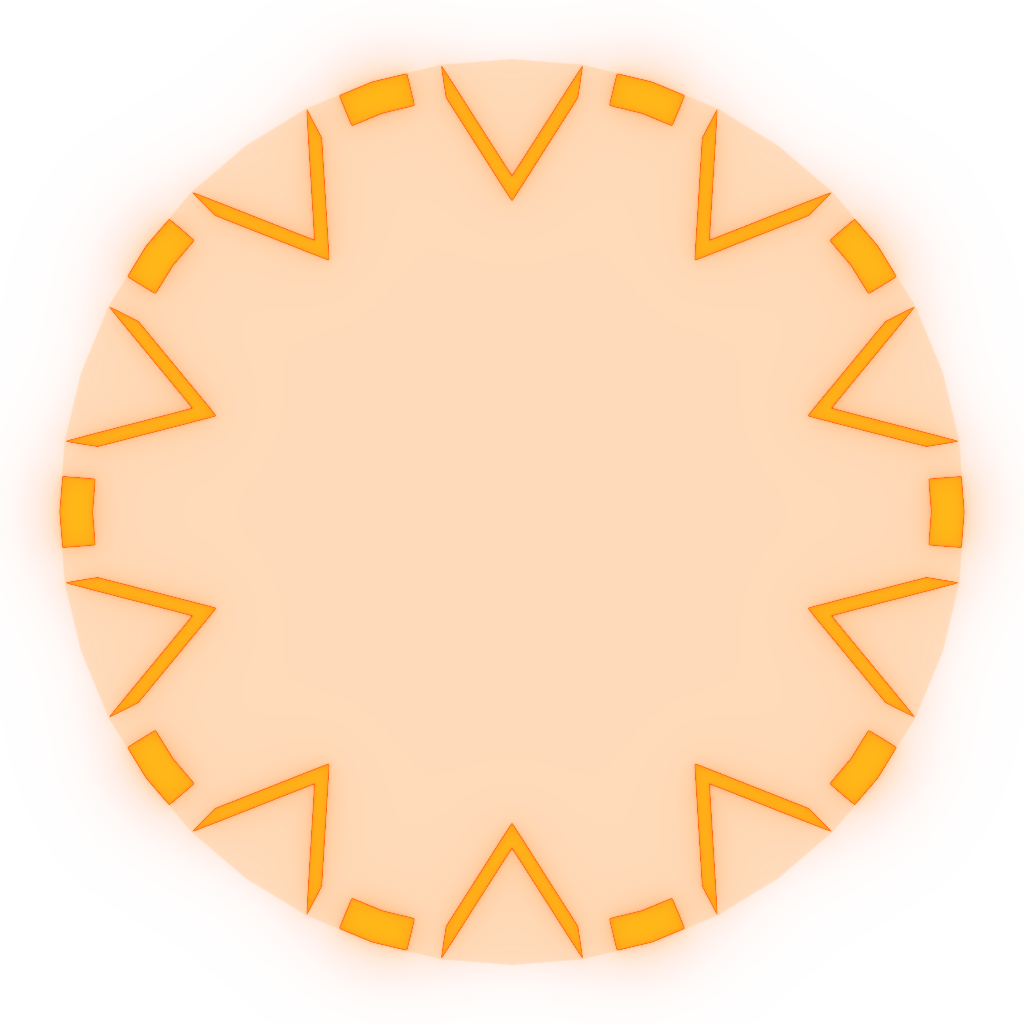
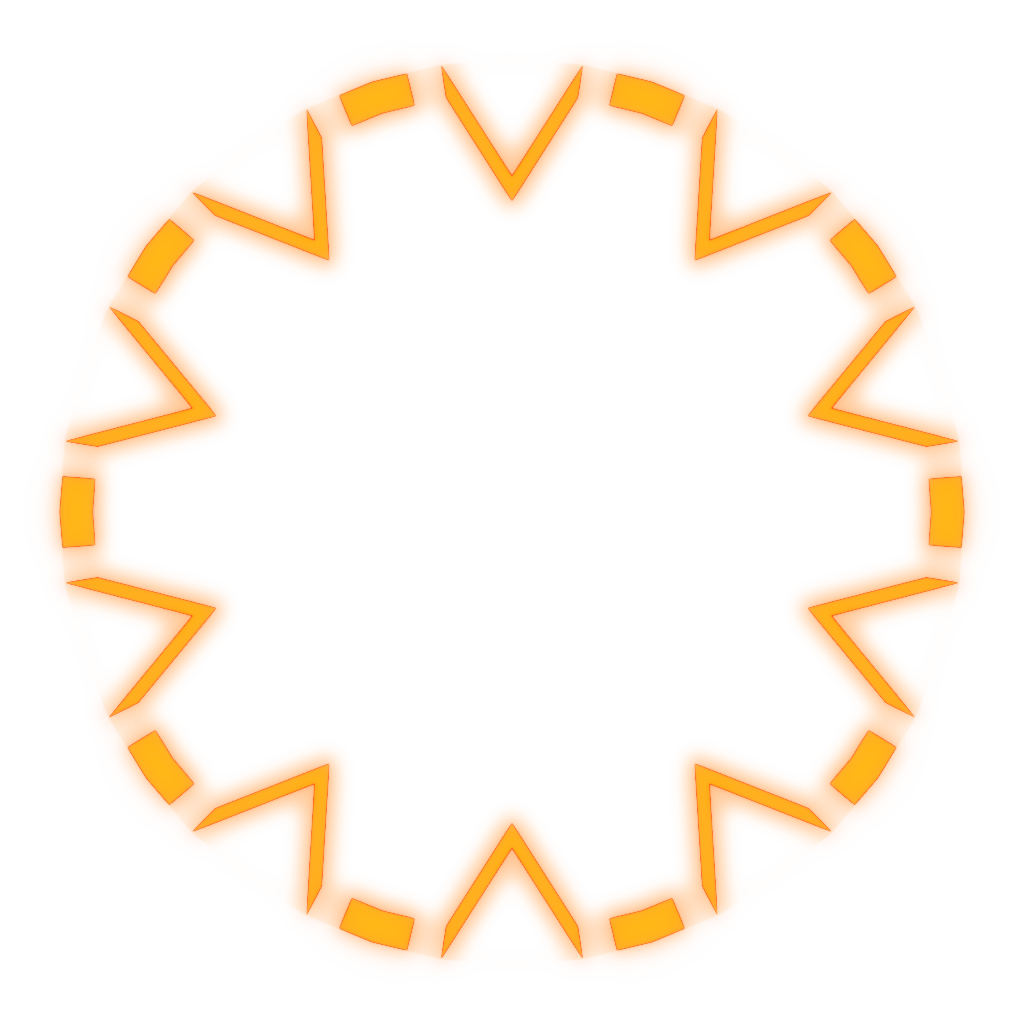
Tweaked orbs and removed unused enemy

diff --git a/core/src/com/tint/specular/game/GameState.java b/core/src/com/tint/specular/game/GameState.java
@@ -35,7 +35,6 @@ import com.tint.specular.game.entities.enemies.EnemyBooster;
 import com.tint.specular.game.entities.enemies.EnemyCircler;
 import com.tint.specular.game.entities.enemies.EnemyDasher;
 import com.tint.specular.game.entities.enemies.EnemyExploder;
-import com.tint.specular.game.entities.enemies.EnemyFront;
 import com.tint.specular.game.entities.enemies.EnemyShielder;
 import com.tint.specular.game.entities.enemies.EnemyStriver;
 import com.tint.specular.game.entities.enemies.EnemyTanker;
@@ -226,11 +225,11 @@ public class GameState extends State {
 		ftfp.characters = FONT_CHARACTERS;
 		ftfp.size = 64;
 		scoreFont = fontGen.generateFont(ftfp);
-		scoreFont.setColor(Color.RED);
+//		scoreFont.setColor(Color.RED);
 		
 		ftfp.size = 40;
 		multiplierFont = fontGen.generateFont(ftfp);
-		multiplierFont.setColor(Color.RED);
+//		multiplierFont.setColor(Color.RED);
 		
 		// Tutorial (Must be initialized before fontGen.dispose())
 		tutorial = new Tutorial(this, fontGen);
@@ -257,7 +256,6 @@ public class GameState extends State {
 		EnemyExploder.init(textureAtlas);
 		EnemyDasher.init(textureAtlas);
 		EnemyTanker.init(textureAtlas);
-		EnemyFront.init(textureAtlas);
 		AnalogStick.init(hud);
 		
 		// Initializing power-ups
@@ -466,7 +464,7 @@ public class GameState extends State {
 		game.batch.setProjectionMatrix(Specular.camera.combined);
 		game.batch.begin();
 		
-		game.batch.setColor(1, 0, 0, 1);
+		game.batch.setColor(1, 1, 1, 1);
 		game.batch.draw(currentMap.getParallax(), -1024 + Camera.getCameraX() / 2, -1024 +  Camera.getCameraY() / 2, 4096, 4096);
 		game.batch.setColor(1, 1, 1, 1);
 		

diff --git a/core/src/com/tint/specular/states/UpgradeState.java b/core/src/com/tint/specular/states/UpgradeState.java
@@ -57,7 +57,6 @@ public class UpgradeState extends State {
 	
 	private static BitmapFont UPFont;
 	private float upgradePoints;
-	private float upgradeDelay;
 	protected int currentlyPressing;
 	protected float waitForDragDelay;
 	
@@ -92,21 +91,15 @@ public class UpgradeState extends State {
 	@Override
 	public void render(float delta) {
 		Gdx.gl.glClear(GL20.GL_COLOR_BUFFER_BIT);
-		
+
 		if(currentlyPressing != -1) {
 			if(waitForDragDelay > 0.1f && upgrades[currentlyPressing].getCost() <= upgradePoints) {
-				if(upgradeDelay > 0.02f) {
-					if(upgrades[currentlyPressing].upgrade()) {
-						upgradePoints -= upgrades[currentlyPressing].getCost();
-						pointsLeftLabel.setText("points available " + (int) Math.floor(upgradePoints));
-						upgradeDelay = 0;
-					}
-				} else {
-					upgradeDelay += delta;
+				if(upgrades[currentlyPressing].upgrade()) {
+					upgradePoints -= upgrades[currentlyPressing].getCost();
+					pointsLeftLabel.setText("points available " + (int) Math.floor(upgradePoints));
 				}
 				list.getProgressBars()[currentlyPressing].setValue(upgrades[currentlyPressing].getGrade());
 			} else {
-				System.out.println(waitForDragDelay);
 				waitForDragDelay += delta;
 				
 			}
@@ -158,7 +151,6 @@ public class UpgradeState extends State {
 			@Override
 			public boolean touchDown(InputEvent event, float x, float y, int pointer, int button) {
 				waitForDragDelay = 0;
-				upgradeDelay = 0;
 				currentlyPressing = upgrades.length - 1 - (int) Math.floor(y / UpgradeList.rowHeight());
 				downX = x;
 				downY = y;

diff --git a/core/src/com/tint/specular/game/entities/Wave.java b/core/src/com/tint/specular/game/entities/Wave.java
@@ -13,7 +13,6 @@ import com.tint.specular.game.entities.enemies.EnemyBooster;
 import com.tint.specular.game.entities.enemies.EnemyCircler;
 import com.tint.specular.game.entities.enemies.EnemyDasher;
 import com.tint.specular.game.entities.enemies.EnemyExploder;
-import com.tint.specular.game.entities.enemies.EnemyFront;
 import com.tint.specular.game.entities.enemies.EnemyShielder;
 import com.tint.specular.game.entities.enemies.EnemyStriver;
 import com.tint.specular.game.entities.enemies.EnemyTanker;
@@ -248,9 +247,6 @@ public class Wave {
 			break;
 		case ENEMY_EXPLODER:
 			e = new EnemyExploder(x, y, gs);
-			break;
-		case ENEMY_FRONT:
-			e = new EnemyFront(x, y, gs);
 			break;
 		case ENEMY_WORM:
 			e = new EnemyWorm(x, y, gs);

diff --git a/core/src/com/tint/specular/game/entities/enemies/Enemy.java b/core/src/com/tint/specular/game/entities/enemies/Enemy.java
@@ -18,7 +18,7 @@ import com.tint.specular.utils.Util;
 public abstract class Enemy implements Entity {
 	
 	public enum EnemyType {
-		ENEMY_BOOSTER, ENEMY_DASHER, ENEMY_STRIVER, ENEMY_CIRCLER, ENEMY_SHIELDER, ENEMY_VIRUS, ENEMY_WANDERER, ENEMY_EXPLODER, ENEMY_FRONT, ENEMY_TANKER, ENEMY_WORM;
+		ENEMY_BOOSTER, ENEMY_DASHER, ENEMY_STRIVER, ENEMY_CIRCLER, ENEMY_SHIELDER, ENEMY_VIRUS, ENEMY_WANDERER, ENEMY_EXPLODER, ENEMY_TANKER, ENEMY_WORM;
 	}
 	
 	protected float x, y, dx, dy;

diff --git a/core/src/com/tint/specular/upgrades/Upgrade.java b/core/src/com/tint/specular/upgrades/Upgrade.java
@@ -21,7 +21,7 @@ public abstract class Upgrade {
 		if(grade >= maxGrade)
 			return false;
 		
-		grade += 0.1f;
+		grade += 0.002f;
 		return true;
 	}
 
